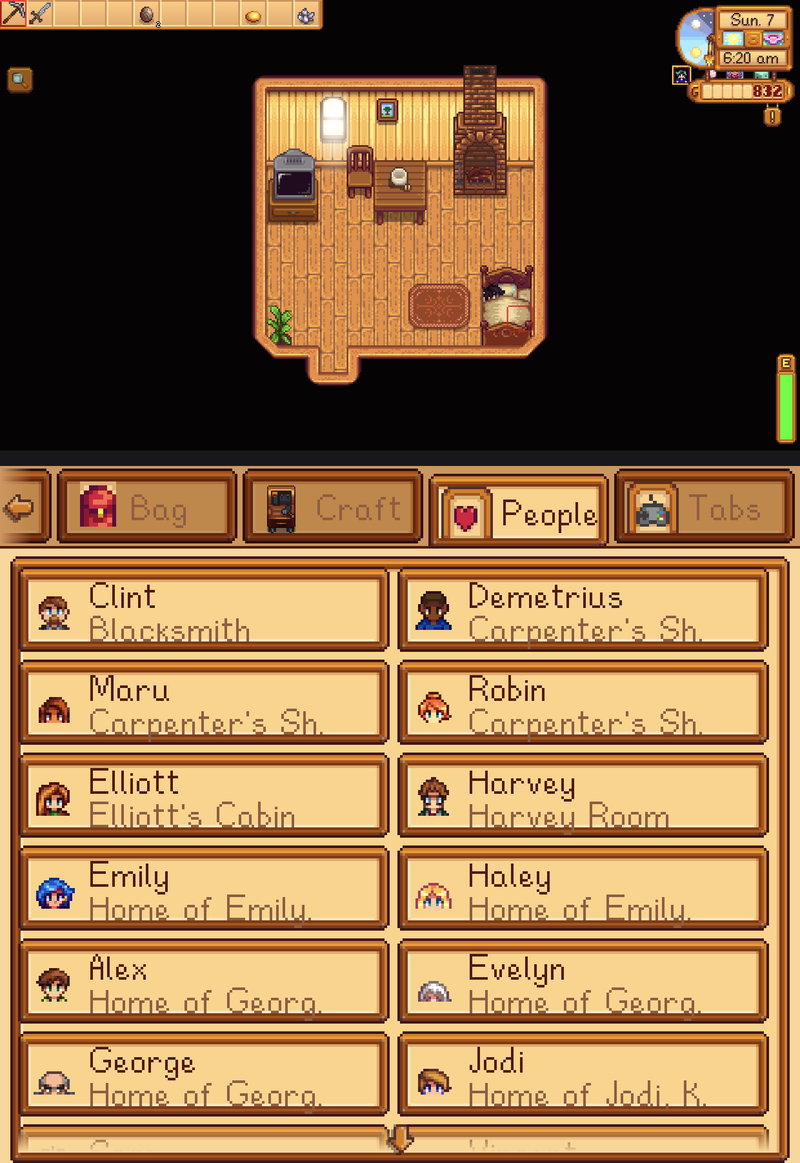
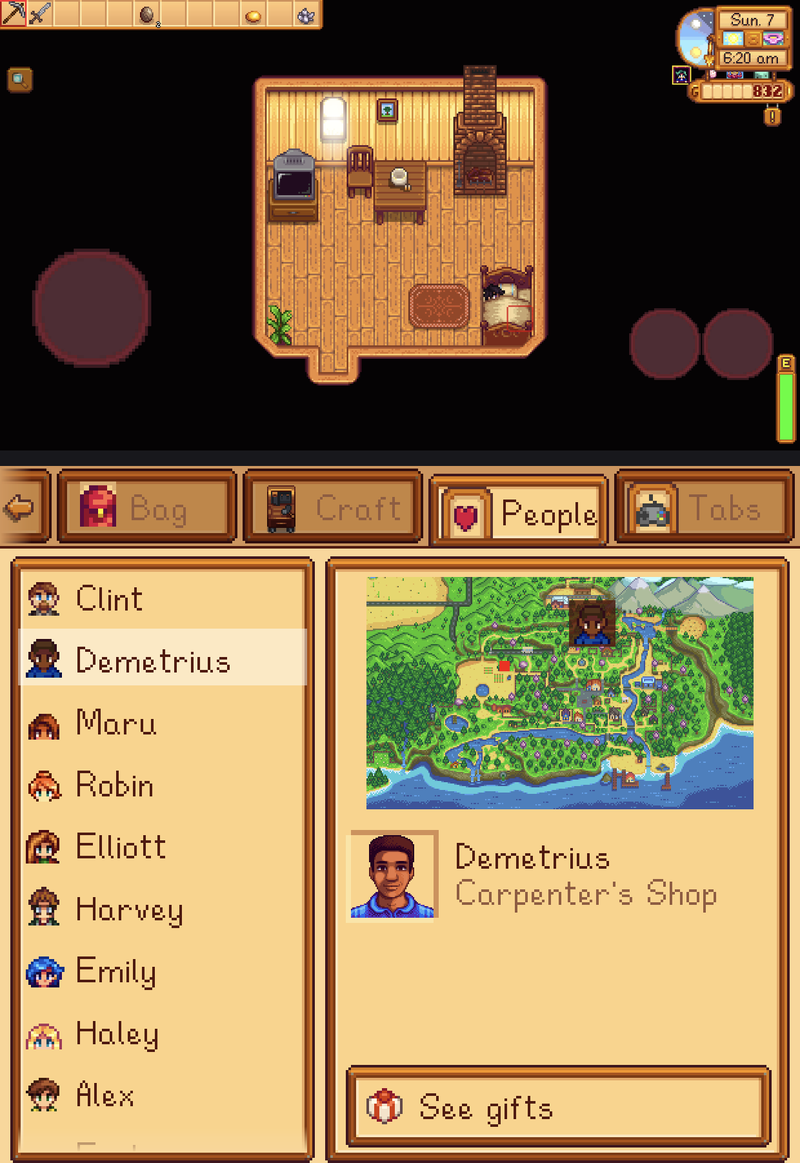
People: name list with a pinned minimap of the picked villager
Tap a name to see the game's world map for their region with their head
pinned and you marked, plus the place name and a See gifts button.

diff --git a/mod/Panels.cs b/mod/Panels.cs
@@ -8,6 +8,7 @@ using StardewValley;
 using StardewValley.Locations;
 using StardewValley.Menus;
 using StardewValley.TerrainFeatures;
+using StardewValley.WorldMaps;
 using SObject = StardewValley.Object;
 
 namespace DualScreen;
@@ -633,9 +634,13 @@ public class Panels
 
     // ---------- People ----------
 
-    const int PeopleRowH = 72, PeopleColW = 294;
-    static readonly Rectangle PeopleView = new(14, 66, 2 * PeopleColW, 454);
-    NPC giftsFocus;
+    // Left: a scrolling list of names. Right: the picked villager on the game's own world map.
+    const int PeopleRowH = 48;
+    static readonly Rectangle PeopleView = new(14, 66, 224, 454);
+    static readonly Rectangle SeeGifts = new(268, 452, 330, 64);
+    const float MapScale = 0.25f; // world-map coordinates are 4x; 0.25 draws the source art pixel for pixel
+    static readonly Point MapOrigin = new(284, 74);
+    NPC giftsFocus, personPick;
 
     /// <summary>Villagers where you are first, then by place, then by name.</summary>
     static List<NPC> People()
@@ -653,13 +658,14 @@ public class Panels
     static string PlaceName(GameLocation loc) =>
         System.Text.RegularExpressions.Regex.Replace(loc.DisplayName, "(?<=[a-z])(?=[A-Z])", " ");
 
-    Rectangle PersonRect(int i) =>
-        new(PeopleView.X + i % 2 * PeopleColW, PeopleView.Y + i / 2 * PeopleRowH - gridScroll, PeopleColW - 6, PeopleRowH - 6);
+    Rectangle PersonRect(int i) => new(PeopleView.X, PeopleView.Y + i * PeopleRowH - gridScroll, PeopleView.Width, PeopleRowH - 4);
 
     void DrawPeople(SpriteBatch b)
     {
-        Card(b, 8, 58, 604, 470);
         var people = People();
+        if (personPick != null && !people.Contains(personPick)) personPick = null;
+
+        Card(b, 8, 58, 236, 470);
         DrawScrolled(b, PeopleView, () =>
         {
             for (int i = 0; i < people.Count; i++)
@@ -667,30 +673,71 @@ public class Panels
                 var r = PersonRect(i);
                 if (r.Bottom < PeopleView.Y || r.Y > PeopleView.Bottom) continue;
                 var npc = people[i];
-                bool here = npc.currentLocation == Game1.currentLocation;
-                Card(b, r.X, r.Y, r.Width, r.Height);
-                Head(b, npc, r.X + 12, r.Y + 17);
-                Text(b, npc.displayName, new Vector2(r.X + 54, r.Y + 8));
-                string place = PlaceName(npc.currentLocation);
-                while (place.Length > 3 && Game1.smallFont.MeasureString(place).X > r.Width - 96) place = place[..^2].TrimEnd() + ".";
-                // Green when they're in the same place as you.
-                Text(b, place, new Vector2(r.X + 54, r.Y + 34), here ? Color.DarkGreen : Faint);
-                if (npc.isBirthday()) Icon(b, Game1.mouseCursors, Gift, r.Right - 40, r.Y + 19, 2);
+                if (npc == personPick) b.Draw(Game1.staminaRect, r, Color.White * 0.5f);
+                Head(b, npc, r.X + 4, r.Y + 6);
+                Text(b, npc.displayName, new Vector2(r.X + 44, r.Y + 10), npc.currentLocation == Game1.currentLocation ? Color.DarkGreen : Ink);
+                if (npc.isBirthday()) Icon(b, Game1.mouseCursors, Gift, r.Right - 32, r.Y + 8, 2);
             }
         });
+
+        Card(b, 252, 58, 360, 470);
+        if (personPick == null) { Text(b, "Tap a name to find them.", new Vector2(270, 74), Faint); return; }
+        var pos = WorldMapManager.GetPositionData(personPick.currentLocation, personPick.TilePoint);
+        if (pos is MapAreaPositionWithContext p) DrawMiniMap(b, p);
+        else Text(b, "Not on the map right now.", new Vector2(270, 120), Faint);
+
+        Portrait(b, personPick, 268, 270);
+        Text(b, personPick.displayName, new Vector2(352, 276));
+        float y = 304;
+        Wrapped(b, PlaceName(personPick.currentLocation), 352, ref y, 248, personPick.currentLocation == Game1.currentLocation ? Color.DarkGreen : Faint, 2);
+        if (personPick.isBirthday()) Text(b, "Birthday today!", new Vector2(352, 356), Color.DarkRed);
+
+        Card(b, SeeGifts.X, SeeGifts.Y, SeeGifts.Width, SeeGifts.Height);
+        Icon(b, Game1.mouseCursors, Gift, SeeGifts.X + 16, SeeGifts.Y + 18, 2);
+        Text(b, "See gifts", new Vector2(SeeGifts.X + 56, SeeGifts.Y + 18));
+    }
+
+    /// <summary>The game's world map for that region, with the villager's head pinned and you marked.</summary>
+    void DrawMiniMap(SpriteBatch b, MapAreaPositionWithContext pos)
+    {
+        var region = pos.Data.Region;
+        Vector2 ToPanel(Vector2 mapPixel) => new(MapOrigin.X + mapPixel.X * MapScale, MapOrigin.Y + mapPixel.Y * MapScale);
+        void DrawTex(MapAreaTexture t)
+        {
+            var a = t.MapPixelArea;
+            var at = ToPanel(new Vector2(a.X, a.Y));
+            b.Draw(t.Texture, new Rectangle((int)at.X, (int)at.Y, (int)(a.Width * MapScale), (int)(a.Height * MapScale)), t.SourceRect, Color.White);
+        }
+        if (region.GetBaseTexture() is MapAreaTexture baseTex) DrawTex(baseTex);
+        foreach (var area in region.GetAreas())
+            foreach (var t in area.GetTextures()) DrawTex(t);
+
+        // You: a small red square, only if you're in the same region.
+        var me = WorldMapManager.GetPositionData(Game1.currentLocation, Game1.player.TilePoint);
+        if (me is MapAreaPositionWithContext m && m.Data.Region.Id == region.Id)
+        {
+            var at = ToPanel(m.GetMapPixelPosition());
+            b.Draw(Game1.staminaRect, new Rectangle((int)at.X - 4, (int)at.Y - 4, 8, 8), Color.Red);
+        }
+        // Them: their head, centred on the spot, with a dark outline so it reads on any terrain.
+        var pin = ToPanel(pos.GetMapPixelPosition());
+        b.Draw(Game1.staminaRect, new Rectangle((int)pin.X - 18, (int)pin.Y - 18, 36, 36), Ink * 0.8f);
+        Head(b, personPick, (int)pin.X - 16, (int)pin.Y - 16);
     }
 
     void TapPeople(int x, int y)
     {
+        if (personPick != null && SeeGifts.Contains(x, y))
+        {
+            var who = personPick;
+            Open(Tab.Gifts);
+            giftsFocus = who;
+            return;
+        }
         if (!PeopleView.Contains(x, y)) return;
         var people = People();
         for (int i = 0; i < people.Count; i++)
-        {
-            if (!PersonRect(i).Contains(x, y)) continue;
-            Open(Tab.Gifts);
-            giftsFocus = people[i];
-            return;
-        }
+            if (PersonRect(i).Contains(x, y)) { personPick = people[i]; return; }
     }
 
     // ---------- Bag ----------
@@ -985,7 +1032,7 @@ public class Panels
     int GridCount => Showing == Tab.Shop && Game1.activeClickableMenu is ShopMenu shop ? shop.forSale.Count : recipes.Count;
 
     int MaxGridScroll => Showing == Tab.People
-        ? Math.Max(0, (People().Count + 1) / 2 * PeopleRowH - PeopleView.Height)
+        ? Math.Max(0, People().Count * PeopleRowH - PeopleView.Height)
         : Math.Max(0, (GridCount + RecipeCols - 1) / RecipeCols * RecipeStep - GridView.Height);
 
     /// <summary>The scrolling window of whichever list is showing.</summary>

diff --git a/docs/FEATURES.md b/docs/FEATURES.md
@@ -23,8 +23,9 @@ their hearts, this week's gifts and what they love. No more wiki tab open beside
 
 ## People
 
-Where every villager is right now: whoever is in your area first (in green), then by place. A gift
-box marks today's birthday. Tap someone to open Gifts on them, wherever they are.
+Every villager by name, with whoever is in your area first (in green) and a gift box on today's
+birthday. Tap a name to see them pinned on the game's own world map, with a red mark for you, plus
+where they are. "See gifts" opens Gifts on them, wherever they are.
 
 ![People tab](screenshots/people.png)
 
